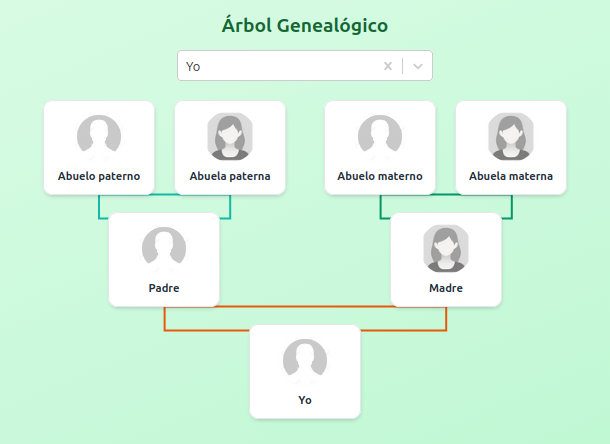
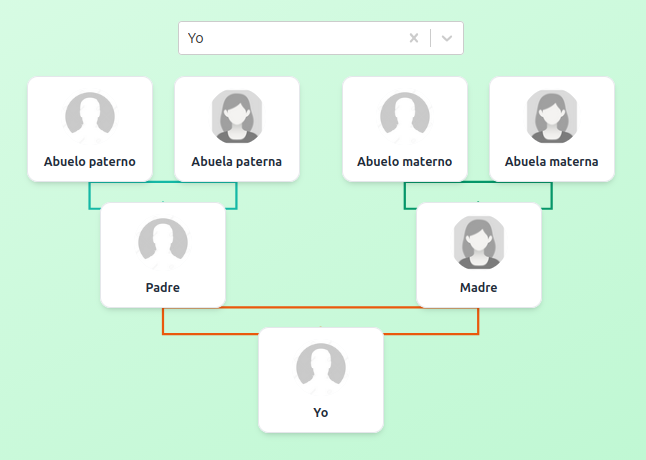
Agregando exportación a PNG y PDF del árbol genealógico

Changed region(s): [[0.0311, 0.0293, 0.9656, 0.9662], [0.4672, 0.8784, 0.5295, 0.9077]]

diff --git a/frontend/src/components/Arbol.tsx b/frontend/src/components/Arbol.tsx
@@ -2,7 +2,9 @@ import React, { useEffect, useState, useRef, useCallback } from 'react';
 import AsyncSelect from 'react-select/async';
 import { getPersonas, getPersonaById } from '../api/personas';
 import type { Persona } from '../api/personas';
-import { DetallesPersona } from './detalles_persona'; // Importación del modal
+import { DetallesPersona } from './detalles_persona';
+import html2canvas from 'html2canvas';
+import jsPDF from 'jspdf';
 
 // ----------------------------------------------------------------------
 // Tipos y constantes
@@ -62,7 +64,7 @@ const calcularNiveles = (mapa: Map<number, NodoArbol>): Map<number, number> => {
   const nivel = new Map<number, number>();
   for (const [id, nodo] of mapa) {
     const tienePadre = (nodo.persona.padre && mapa.has(nodo.persona.padre)) ||
-                       (nodo.persona.madre && mapa.has(nodo.persona.madre));
+      (nodo.persona.madre && mapa.has(nodo.persona.madre));
     if (!tienePadre) nivel.set(id, 0);
   }
   let changed = true;
@@ -274,7 +276,6 @@ const fetchPersonAndAncestors = async (personaId: number): Promise<Persona[]> =>
       const persona = await getPersonaById(currentId);
       personasMap.set(currentId, persona);
 
-      // Normalizar IDs de padre y madre
       const padreId = normalizeId(persona.padre);
       const madreId = normalizeId(persona.madre);
 
@@ -317,6 +318,7 @@ export const Arbol: React.FC = () => {
   const redrawTimeout = useRef<number | null>(null);
   const [selectedPerson, setSelectedPerson] = useState<Persona | null>(null);
   const [showDetails, setShowDetails] = useState(false);
+  const [exportMenuOpen, setExportMenuOpen] = useState(false);
 
   // Cargar ancestros cuando se selecciona una persona
   useEffect(() => {
@@ -498,12 +500,102 @@ export const Arbol: React.FC = () => {
     setSelectedPerson(null);
   };
 
+  // Exportar como PNG
+  const exportAsPNG = async () => {
+    if (!containerRef.current) return;
+    try {
+      // Esperar a que todas las imágenes carguen
+      const images = Array.from(containerRef.current.querySelectorAll('img'));
+      await Promise.all(images.map(img => {
+        if (img.complete) return Promise.resolve();
+        return new Promise((resolve) => { img.onload = resolve; img.onerror = resolve; });
+      }));
+
+      const canvas = await html2canvas(containerRef.current, {
+        scale: 2,
+        backgroundColor: '#f0fdf4',
+        useCORS: true,
+        logging: false,
+      });
+      const link = document.createElement('a');
+      link.download = `arbol_genealogico_${selectedPersonId || 'completo'}.png`;
+      link.href = canvas.toDataURL();
+      link.click();
+    } catch (err) {
+      console.error('Error exportando PNG:', err);
+      alert('No se pudo exportar la imagen.');
+    }
+  };
+
+  const exportAsPDF = async () => {
+    if (!containerRef.current) return;
+    try {
+      // Esperar a que todas las imágenes carguen
+      const images = Array.from(containerRef.current.querySelectorAll('img'));
+      await Promise.all(images.map(img => {
+        if (img.complete) return Promise.resolve();
+        return new Promise((resolve) => { img.onload = resolve; img.onerror = resolve; });
+      }));
+
+      const canvas = await html2canvas(containerRef.current, {
+        scale: 2,
+        backgroundColor: '#f0fdf4',
+        useCORS: true,        
+        logging: false,
+      });
+      const imgData = canvas.toDataURL('image/png');
+      const pdf = new jsPDF({
+        orientation: 'landscape',
+        unit: 'px',
+        format: [canvas.width, canvas.height],
+      });
+      pdf.addImage(imgData, 'PNG', 0, 0, canvas.width, canvas.height);
+      pdf.save(`arbol_genealogico_${selectedPersonId || 'completo'}.pdf`);
+    } catch (err) {
+      console.error('Error exportando PDF:', err);
+      alert('No se pudo exportar el PDF.');
+    }
+  };
+
   if (loading) return <div className="text-center py-8 text-white font-bold text-2xl">Cargando árbol...</div>;
   if (error) return <div className="text-center py-8 text-red-600">Error: {error}</div>;
 
   return (
     <div className="bg-gradient-to-br from-green-100 to-green-200 rounded-xl shadow-xl p-6 overflow-auto">
-      <h2 className="text-2xl font-bold text-green-800 mb-4 text-center">Árbol Genealógico</h2>
+      <div className="flex justify-between items-center mb-4">
+        <h2 className="text-2xl font-bold text-green-800">Árbol Genealógico 🌳</h2>
+        <div className="relative">
+          <button
+            onClick={() => setExportMenuOpen(!exportMenuOpen)}
+            className="bg-blue-600 hover:bg-blue-700 text-white font-semibold py-2 px-4 rounded-lg transition-colors flex items-center gap-2"
+          >
+            📤 Exportar <span className="text-sm">▼</span>
+          </button>
+          {exportMenuOpen && (
+            <div className="absolute right-0 mt-2 w-36 bg-white rounded-lg shadow-lg z-10 border border-gray-200">
+              <button
+                onClick={() => {
+                  exportAsPNG();
+                  setExportMenuOpen(false);
+                }}
+                className="block w-full text-left px-4 py-2 text-gray-800 hover:bg-gray-100 rounded-t-lg"
+              >
+                📷 PNG
+              </button>
+              <button
+                onClick={() => {
+                  exportAsPDF();
+                  setExportMenuOpen(false);
+                }}
+                className="block w-full text-left px-4 py-2 text-gray-800 hover:bg-gray-100 rounded-b-lg"
+              >
+                📄 PDF
+              </button>
+            </div>
+          )}
+        </div>
+      </div>
+
       <div className="mb-6 flex justify-center">
         <AsyncSelect
           className="w-80"
@@ -515,11 +607,10 @@ export const Arbol: React.FC = () => {
           value={
             selectedPersonId && personas.find(p => p.id === selectedPersonId)
               ? {
-                  value: selectedPersonId,
-                  label: `${personas.find(p => p.id === selectedPersonId)!.nombre} ${
-                    personas.find(p => p.id === selectedPersonId)!.apellido1 || ''
+                value: selectedPersonId,
+                label: `${personas.find(p => p.id === selectedPersonId)!.nombre} ${personas.find(p => p.id === selectedPersonId)!.apellido1 || ''
                   }`.trim(),
-                }
+              }
               : null
           }
         />

diff --git a/README.md b/README.md
@@ -15,6 +15,8 @@ Django Rest Framework en backend y React, Typescript y Tailwindcss en frontend
 
 <img src="img/detalles_persona2.png" alt="Ventana de detalles de una persona">
 
+<img src="img/árbol2.png" alt="Árbol">
+
 
 **Gestionar Personas**
 